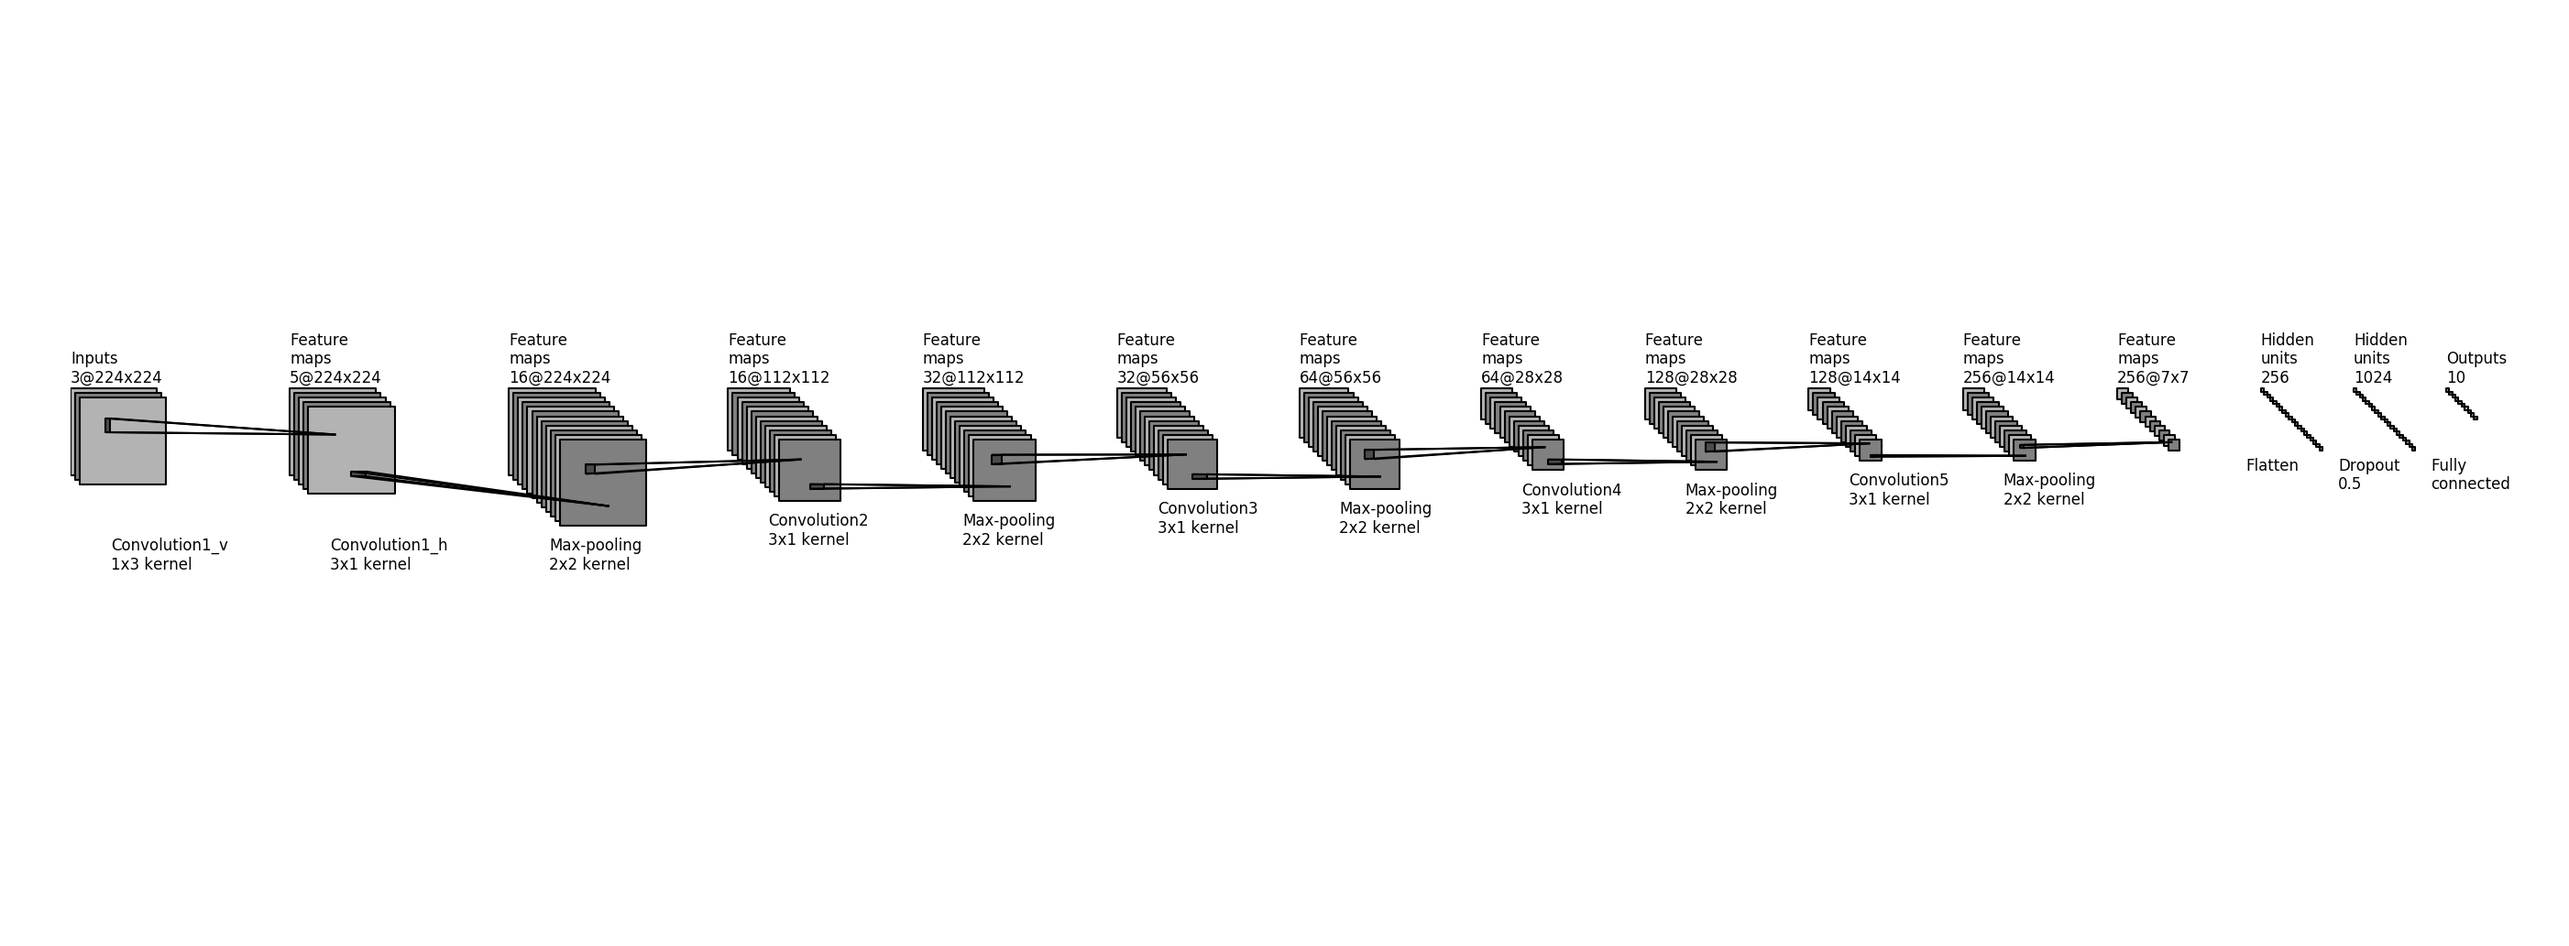
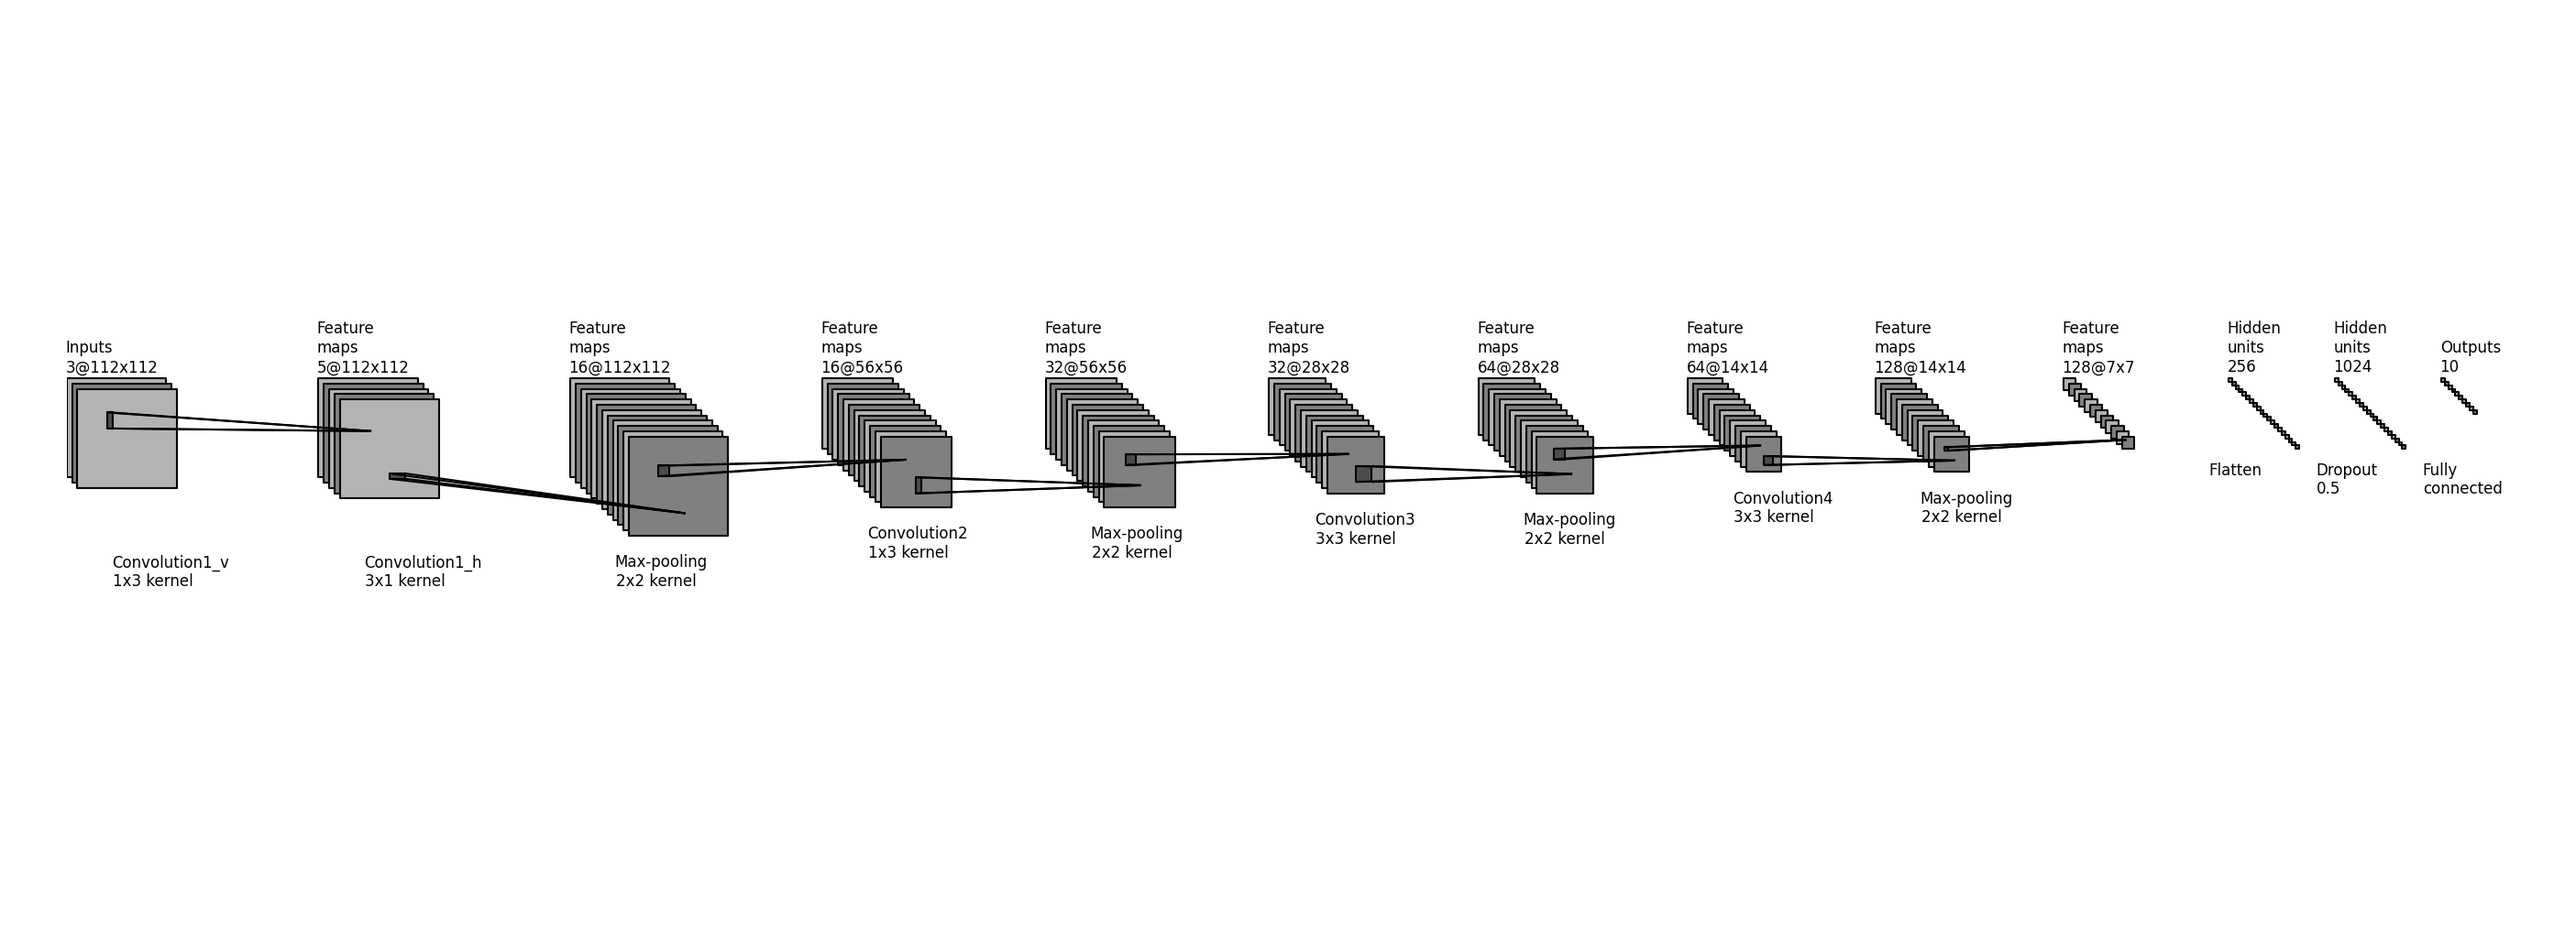
change fig

Changed region(s): [[0.0, 0.3408, 0.9932, 0.6196], [0.1242, 0.5576, 0.1862, 0.6196], [0.031, 0.5576, 0.0931, 0.6196]]

diff --git a/draw_convnet.py b/draw_convnet.py
@@ -118,18 +118,16 @@ if __name__ == '__main__':
     #           The first pair (1, 3) is the actual network param used for text display,
     #           the second pair (3, 9) is the scaled pixel size only for plotting on large feature maps.
     #           Same thing applies to 'map' size, where size used for plotting may be smaller than the actual size.
-    input_setting = {'map': (224, 224, 56, 56), 'map_num': 3}
-    network_settings = [{'type': 'Convolution1_v', 'kernel': (1, 3, 3, 9), 'map': (224, 224, 56, 56), 'map_num': 5},
-                        {'type': 'Convolution1_h', 'kernel': (3, 1, 9, 3), 'map': (224, 224, 56, 56), 'map_num': 16},
-                        {'type': 'Max-pooling', 'kernel': (2, 2, 6, 6), 'map': (112, 112, 40, 40), 'map_num': 16},
-                        {'type': 'Convolution2', 'kernel': (3, 1, 9, 3), 'map': (112, 112, 40, 40), 'map_num': 32},
-                        {'type': 'Max-pooling', 'kernel': (2, 2, 6, 6), 'map': (56, 56, 32, 32), 'map_num': 32},
-                        {'type': 'Convolution3', 'kernel': (3, 1, 9, 3), 'map': (56, 56, 32, 32), 'map_num': 64},
-                        {'type': 'Max-pooling', 'kernel': (2, 2, 6, 6), 'map': (28, 28, 20, 20), 'map_num': 64},
-                        {'type': 'Convolution4', 'kernel': (3, 1, 9, 3), 'map': (28, 28, 20, 20), 'map_num': 128},
-                        {'type': 'Max-pooling', 'kernel': (2, 2, 6, 6), 'map': (14, 14), 'map_num': 128},
-                        {'type': 'Convolution5', 'kernel': (3, 1), 'map': (14, 14), 'map_num': 256},
-                        {'type': 'Max-pooling', 'kernel': (2, 2), 'map': (7, 7), 'map_num': 256}]
+    input_setting = {'map': (112, 112, 56, 56), 'map_num': 3}
+    network_settings = [{'type': 'Convolution1_v', 'kernel': (1, 3, 3, 9), 'map': (112, 112, 56, 56), 'map_num': 5},
+                        {'type': 'Convolution1_h', 'kernel': (3, 1, 9, 3), 'map': (112, 112, 56, 56), 'map_num': 16},
+                        {'type': 'Max-pooling', 'kernel': (2, 2, 6, 6), 'map': (56, 56, 40, 40), 'map_num': 16},
+                        {'type': 'Convolution2', 'kernel': (1, 3, 3, 9), 'map': (56, 56, 40, 40), 'map_num': 32},
+                        {'type': 'Max-pooling', 'kernel': (2, 2, 6, 6), 'map': (28, 28, 32, 32), 'map_num': 32},
+                        {'type': 'Convolution3', 'kernel': (3, 3, 9, 9), 'map': (28, 28, 32, 32), 'map_num': 64},
+                        {'type': 'Max-pooling', 'kernel': (2, 2, 6, 6), 'map': (14, 14, 20, 20), 'map_num': 64},
+                        {'type': 'Convolution4', 'kernel': (3, 3, 5, 5), 'map': (14, 14, 20, 20), 'map_num': 128},
+                        {'type': 'Max-pooling', 'kernel': (2, 2), 'map': (7, 7), 'map_num': 128}]
     size_list = [input_setting['map']] + [setting['map'] for setting in network_settings]
     num_list = [input_setting['map_num']] + [setting['map_num'] for setting in network_settings]
     loc_diff_each_map = [3, -3]

diff --git a/README.md b/README.md
@@ -3,4 +3,4 @@
 Python script for illustrating Convolutional Neural Network (ConvNet)
 
 Example image
-![](https://raw.githubusercontent.com/gwding/draw_convnet/master/convnet_fig.png)
+![](https://raw.githubusercontent.com/HugoFeng/draw_convnet/master/convnet_fig.png)
